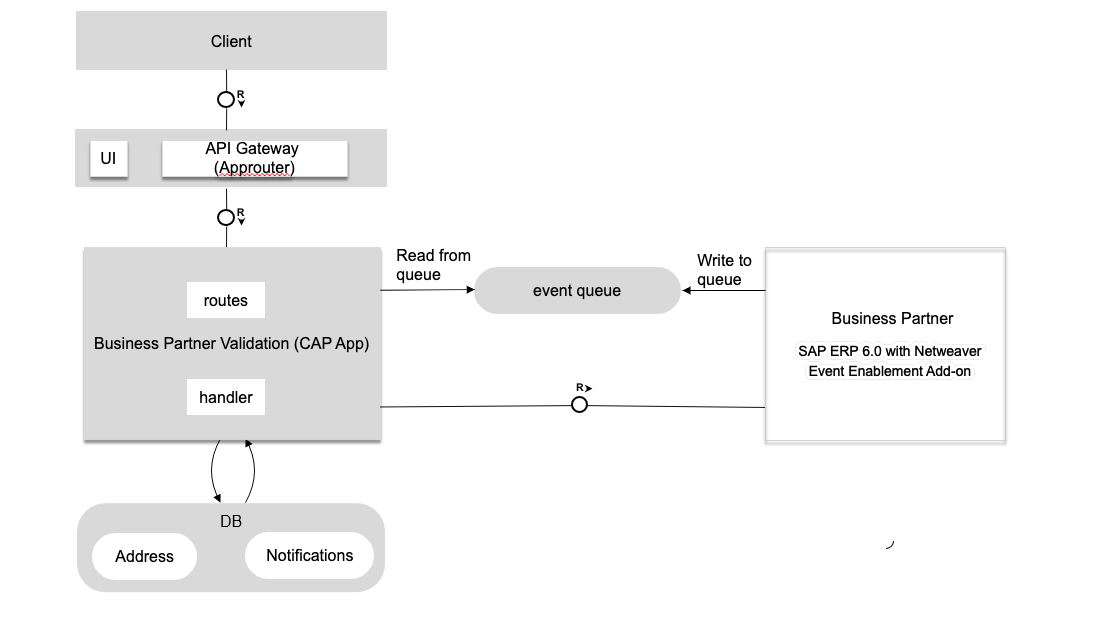
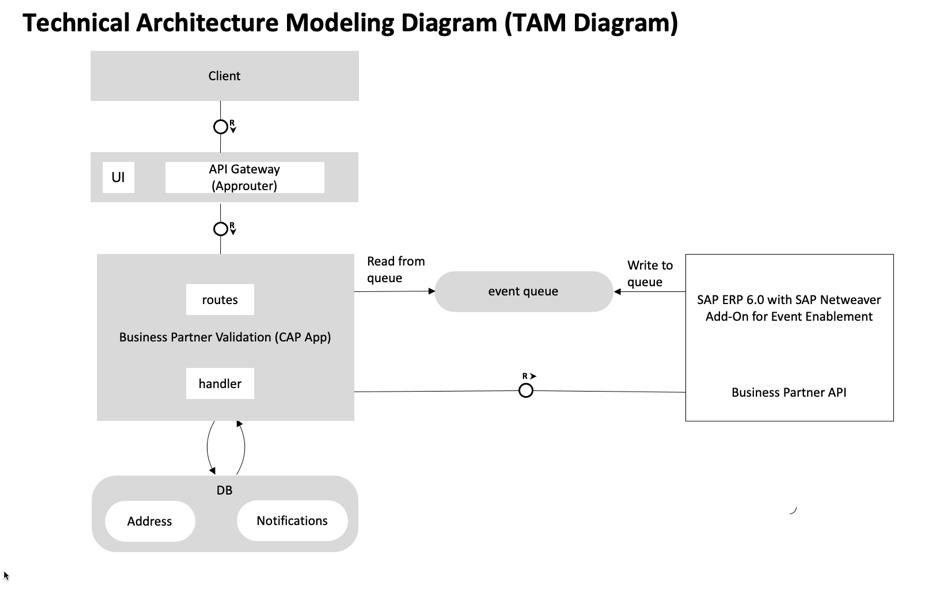
update solution and TAM diagram

Changed region(s): [[0.0305, 0.0, 0.9463, 0.973], [0.6716, 0.6993, 0.9463, 0.7297], [0.7632, 0.6385, 0.9158, 0.6689]]

diff --git a/mission/scenario/README.md b/mission/scenario/README.md
@@ -37,7 +37,7 @@ For the complete installation, configuration and implementation of this scenario
 The Business Partner Validation application is developed using [SAP Cloud Application programming Model (CAP)](https://cap.cloud.sap/docs/) and runs on the SAP BTP Cloud Foundry Environment. It consist of 3 modules: database, service and UI. It consumes platform services like Event Mesh, SAP HANA and Connectivity. The events generated in the SAP ERP system are inserted into the Event Mesh queue. The application running in Cloud Foundry polls the queue for these messages and inserts them into the HANA database. The Business Partner Validation Application uses custom OData services to read data from Business Partner Data from SAP ERP system - thoses services uses the S/4HANA APIs as a template. 
 
 
-   ![tam diagram](./images/TAM-diagram.png)
+   ![tam diagram](./images/TAMDiagram.png)
 
 
 ## Requirements
